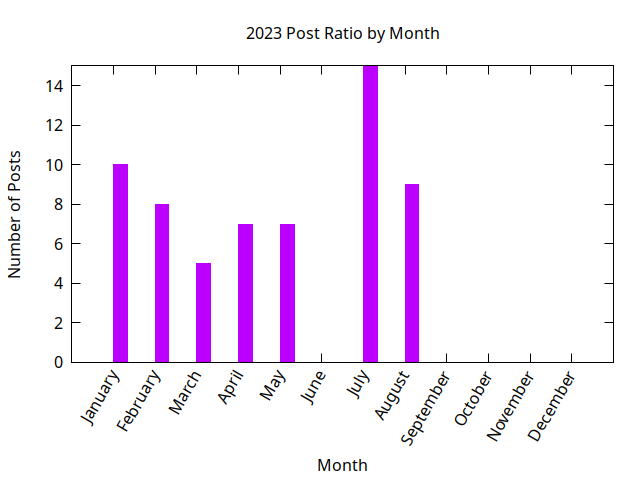
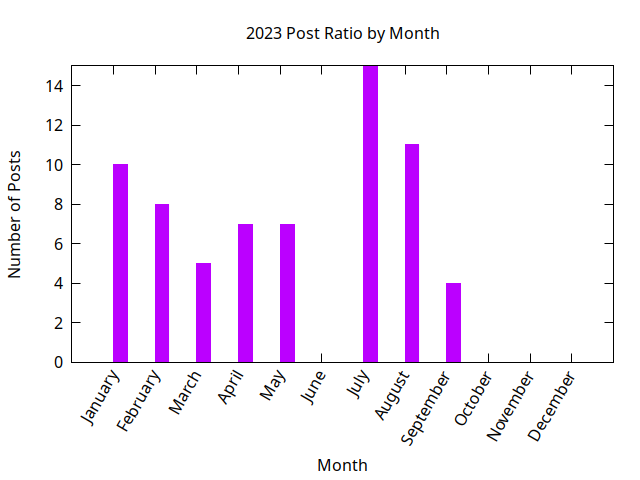
PostgreSQL Emacs YASnippet post and Perl post
Emacs CPerl Mode when editing .t files

I forgot to add the pgtraining 2023 event video

Changed region(s): [[0.6875, 0.5938, 0.7188, 0.75], [0.625, 0.2812, 0.6562, 0.4062]]

diff --git a/_posts/2023-09-08-PerlDynamicMethodDispatching.md b/_posts/2023-09-08-PerlDynamicMethodDispatching.md
@@ -1,0 +1,227 @@
+---
+layout: post
+title:  "Dynamic Method Dispatching in Perl"
+author: Luca Ferrari
+tags:
+- perl
+permalink: /:year/:month/:day/:title.html
+---
+Perl is a language rich in features, and one that I seldomly use is the dynamic method dispatching.
+
+# Dynamic Method Dispatching in Perl
+
+Perl is a very dynamic and flexible language, we all know that!
+<br/>
+In this post I present a feature that I seldomly use, that is the dynamic method dispatching.
+<br/>
+I tend not to use, nor abuse, this feature because it can become very quickly a root for errors and reduces the code readability. Moreover, having **worked very hard with reflection and dynamic methods** (see my PhD thesis for an idea), it reminds me very hard times!
+<br/>
+However, there are some edge cases where this Perl feature can save you a lot of code, and in this article I try to simply demonstrate it.
+
+## The Scenario
+
+Imagine you want to build a `Person` class (e.g., using `Moo`, but that does not matter at all), and you want to give to the `Person` a set of capabilities that are very similar *in shape*. For example, a `Person` can have a list of *skills* and `achievements`: both are *lists* (arrays), no matter if you use a class to represent each of them or not.
+<br/>
+In this situation, you will quickly find yourself in writing code that, for example, count and stringify the above class properties.
+<br/>
+A simple application can run as the following:
+
+<br/>
+<br/>
+```perl
+package Person;
+use Moo;
+
+has name    	 => ( is => 'ro' );
+has skills  	 => ( is => 'rw', default => sub { [] } );
+has achievements => ( is => 'rw', default => sub { [] } );
+
+
+
+
+package main;
+
+my $luca = Person->new( name => 'Luca' );
+push $luca->skills->@*, $_ for ( qw/ Perl Raku Java PHP C / );
+push $luca->achievements->@*, $_ for ( qw/ degree PhD / );
+
+
+# print out the person details
+say 'The person ' . $luca->name . ' has: ';
+say "\t" . scalar( $luca->skills->@* ) . " skills ";
+say "\t" . join( ', ', $luca->skills->@* );
+say ' and has: ';
+say "\t" . scalar( $luca->achievements->@* ) . " achievements ";
+say "\t" . join( ', ', $luca->achievements->@* );
+
+```
+<br/>
+<br/>
+
+
+The output of the application is very straighforward:
+
+<br/>
+<br/>
+```shell
+% perl test.pl
+The person Luca has:
+        5 skills
+        Perl, Raku, Java, PHP, C
+ and has:
+        2 achievements
+        degree, PhD
+
+```
+<br/>
+<br/>
+
+
+Did you spot the problem? Well, there is no problem so far, but sooner or later, for sake of readability, you will provide some class methods to help the data retrieval. The class and the application therefore could be modified as follows:
+
+
+<br/>
+<br/>
+```perl
+use v5.38;
+
+package Person;
+use Moo;
+
+has name    	 => ( is => 'ro' );
+has skills  	 => ( is => 'rw', default => sub { [] } );
+has achievements => ( is => 'rw', default => sub { [] } );
+
+sub count_skills {
+    my ( $self ) = @_;
+    scalar $self->skills->@*;
+}
+
+sub count_achievements {
+    my ( $self ) = @_;
+    scalar $self->achievements->@*;
+}
+
+sub list_skills {
+    my ( $self ) = @_;
+    join ', ', $self->skills->@*;
+}
+
+sub list_achievements {
+    my ( $self ) = @_;
+    join ', ', $self->achievements->@*;
+}
+
+
+package main;
+
+my $luca = Person->new( name => 'Luca' );
+push $luca->skills->@*, $_ for ( qw/ Perl Raku Java PHP C / );
+push $luca->achievements->@*, $_ for ( qw/ degree PhD / );
+
+say 'The person ' . $luca->name . ' has: ';
+say "\t" . $luca->count_skills . " skills ";
+say "\t" . $luca->list_skills;
+say ' and has: ';
+say "\t" . $luca->count_achievements . " achievements ";
+say "\t" . $luca->list_achievements;
+
+```
+<br/>
+<br/>
+
+The methods `count_skills`, `count_achievements`, `list_skills`, `list_achievements` help improving the usage of your own class from the outside, but require you to write more code within the class.
+<br/>
+Do you see the problem now?
+<br/>
+*Every time you add a new property to the class, you need to implement a few utility/helper methods*, and this is annoying!
+
+
+## Dynamic Dispatch to the Rescue
+
+Being Perl, it is possible to solve the problem of adding new properties to the class without requiring new methods thanks to the dynamic method dispatch.
+The idea is to write only the *template* methods, that can work on pretty much every list property of the class, and then use those methods to dynamically call the property methods on the class. This of course requires that (i) the properties have similar behavior and (ii) the counting, stringification, and in general the methods can apply the same logic to all the above properties.
+<br/>
+The class is modified as follows:
+
+
+<br/>
+<br/>
+```perl
+use v5.38;
+
+package Person;
+use Moo;
+
+has name    	 => ( is => 'ro' );
+has skills  	 => ( is => 'rw', default => sub { [] } );
+has achievements => ( is => 'rw', default => sub { [] } );
+
+sub count {
+    my ( $self, $what ) = @_;
+    scalar $self->$what()->@*;
+}
+
+sub list {
+    my ( $self, $what ) = @_;
+    join ', ', $self->$what()->@*;
+}
+
+
+package main;
+
+my $luca = Person->new( name => 'Luca' );
+push $luca->skills->@*, $_ for ( qw/ Perl Raku Java PHP C / );
+push $luca->achievements->@*, $_ for ( qw/ degree PhD / );
+
+say 'The person ' . $luca->name . ' has: ';
+say "\t" . $luca->count( 'skills' ) . " skills ";
+say "\t" . $luca->list( 'skills' );
+say ' and has: ';
+say "\t" . $luca->count( 'achievements' ) . " achievements ";
+say "\t" . $luca->list( 'achievements' )
+```
+<br/>
+<br/>
+
+
+Let's start from the application first: as you can see the methods now accept a string value (e.g., `'skills'`) that is used to discriminate between the different class properties. The methods, now `count` and `list` operate on the `$what()` class method, that is in turn resolved into a class method.
+<br/>
+For instance, `$luca->count( 'skills' );` is translated into `scalar $self->$what()->@*` that in turn is translated into `scalar $self->skills()->@*`. The trick here is that `$what` is used to store **the method name, that in turn is activated by appending `()` after the variable evaluation** (and note that the parentheses are not even mandatory!).
+
+<br/>
+<br/>
+
+This provides room also for another improvement in the code that exploits your class:
+
+<br/>
+<br/>
+```perl
+package main;
+
+my $luca = Person->new( name => 'Luca' );
+push $luca->skills->@*, $_ for ( qw/ Perl Raku Java PHP C / );
+push $luca->achievements->@*, $_ for ( qw/ degree PhD / );
+
+say 'The person ' . $luca->name . ' has: ';
+for ( qw/ skills achievements / ) {
+    say "\t" . $luca->count( $_ ) . " $_";
+    say "\t" . $luca->list( $_ ) . " $_";
+}
+
+
+```
+<br/>
+<br/>
+
+
+In other words, you can loop over a set of properties (by their names) and get out the data from the generic and dynamic methods.
+<br/>
+This is, by far, the only way I use this approach: when I need to produce long reports over datasets (e.g., spredsheets), I tend to implement generic method that wrap dynamic dispatch and loop over all the properties I want to extract.
+
+
+# Conclusions
+
+Perl is really a dynamic and flexible language, that allows you to shrink your code in a very clever way.
+<br/>
+Less code, generally means less errors and, most notably, more fun!

diff --git a/_posts/2023-09-08-EmacsPostgreSQLFunctionTemplate.md b/_posts/2023-09-08-EmacsPostgreSQLFunctionTemplate.md
@@ -1,0 +1,81 @@
+---
+layout: post
+title:  "Using Emacs and YASnippet to quickly write PostgreSQL functions"
+author: Luca Ferrari
+tags:
+- postgresql
+- planet-postgresql-org
+- emacs
+permalink: /:year/:month/:day/:title.html
+---
+How a simple snippet can allow you to save time and improve your PostgreSQL code quality.
+
+# Using Emacs and YASnippet to quickly write PostgreSQL functions
+
+I love Emacs, and I also love PostgreSQL.
+<br/>
+Whenever I have to write PostgreSQL code, I use Emacs.
+<br/>
+Emacs can help me improving code quality, for example to write PostgreSQL functions. I use *YASnippet* as a package to provide the basic template for a PostgreSQL function.
+
+# A PostgreSQL Function Template (in action)
+Before explaining the concept, let's see a couple of short videos that demonstrate my snippet in action:
+
+
+<br/>
+<br/>
+<center>
+<iframe width="560" height="315" src="https://www.youtube.com/embed/9o5ahcmZK90?si=dRiQIsMn88ijuk5j" title="YouTube video player" frameborder="0" allow="accelerometer; autoplay; clipboard-write; encrypted-media; gyroscope; picture-in-picture; web-share" allowfullscreen></iframe>
+
+<br/>
+
+<iframe width="560" height="315" src="https://www.youtube.com/embed/y8YWMZGz5cY?si=ySvUEFgIOIYy0wP3" title="YouTube video player" frameborder="0" allow="accelerometer; autoplay; clipboard-write; encrypted-media; gyroscope; picture-in-picture; web-share" allowfullscreen></iframe>
+</center>
+<br/>
+<br/>
+
+
+# A PostgreSQL Function Template (the code)
+
+The code for the template is the following one (I may change some bits here and there as time goes by):
+
+<br/>
+<br/>
+```
+# -*- mode: snippet -*-
+# name: PostgreSQL Function
+# key: function
+# --
+--
+-- Function ${1:function_name}
+-- Schema   ${2:public}
+--
+-- Description:
+-- $3
+--
+-- Return Type: ${4:VOID}
+--
+CREATE ${5:OR REPLACE} FUNCTION
+$2.$1($6)
+RETURNS $4
+AS $CODE$
+
+$0
+
+$CODE$
+LANGUAGE ${8:plpgsql}
+VOLATILE
+;
+```
+<br/>
+<br/>
+
+The preamble is used from Emacs to understand the template name.
+The following, is SQL code that works as a template for a function. Every `$n` placeholder is a tab stop that can be used to place the cursor within the text. For example, `${1:function_name}` is the first (`1`) tab stop, that present the default text `function_name` that is overwritten as I type in something. The name of function is then automatically replaced into the other `$1` placeholder.
+<br/>
+Note, how I first begin from the documentation, and then jump to the function code. This is a very important **added value: writing the documentation first I ensure every piece of code will have at least some documentation, and thanks to the placeholders, what I write in the documentation is used to name the function and its return type**.
+
+
+# Conclusions
+
+Emacs and YASnippet can be very powerful to help writing PostgreSQL code. While this post focuses on functions, it is possible to provide templates also for other kind of code schemes, like procedures, triggers, and so on.

diff --git a/_includes/stats/2023.md b/_includes/stats/2023.md
@@ -1,25 +1,26 @@
 <a name="2023" />
 ## 2023 (work in progress)
 
-**61 total posts** have been written on 2023.
-There have been *15 different tags* used, the most
+**67 total posts** have been written on 2023.
+There have been *16 different tags* used, the most
 popular being (sorted by number of posts):
  
-- *perl* (33 posts)  
-- *raku* (27 posts)  
-- *perlweeklychallenge* (27 posts)  
-- *postgresql* (20 posts)  
-- *planet-postgresql-org* (20 posts)  
-- *emacs* (3 posts)  
-- *linux* (2 posts)  
+- *perl* (37 posts)  
+- *perlweeklychallenge* (28 posts)  
+- *raku* (28 posts)  
+- *planet-postgresql-org* (21 posts)  
+- *postgresql* (21 posts)  
+- *emacs* (6 posts)  
 - *microsoft* (2 posts)  
-- *ssh* (2 posts)  
 - *oracle* (2 posts)  
-- *pgagroal* (1 posts)  
+- *ssh* (2 posts)  
+- *linux* (2 posts)  
 - *kde* (1 posts)  
-- *systemd* (1 posts)  
 - *libreoffice* (1 posts)  
-- *pgenv* (1 posts).<br/>
+- *systemd* (1 posts)  
+- *pgenv* (1 posts)  
+- *windows* (1 posts)  
+- *pgagroal* (1 posts).<br/>
 <br/>
 The following is the overall 2023 post ratio by month:
 <br/>
@@ -38,7 +39,7 @@ The following is the overall 2023 post ratio by tag (showing max 30 tags):
 
 <div align="right">
 <small>
-Last generated on 2023-08-24 at 14:42
+Last generated on 2023-09-08 at 9:48
 </small>
 </div>
 

diff --git a/projects.md b/projects.md
@@ -84,6 +84,7 @@ Where I was learning, where I was teaching.
 
 ## As a lecturer
 
+- *PGTraining online event 2023*, free online event on April 14th 2023, italian speech titled **[Il linguaggio PL/Perl](https://vimeo.com/820564361){:target="_blank"}**
 - *PGTraining online event 2022*, free online event on April 29th 2022, italian speech titled **[Gestione delle connessioni con pgagroal](https://vimeo.com/704626463){:target="_blank"}**, [slides available](https://gitlab.com/pgtraining/slides/-/blob/master/webinar-20220429/2022_PGTRAINING_20220429.pdf){:target="_blank"}
 - *Linux Day 2021, Modena*, I gave a talk about `Raku` titled **[Il linguaggio della farfallina](https://odysee.com/@fluca1978:d/2021_LINUXDAY_RAKU:7){:target="_blank"}**
 - *PGTraining online event 2021*, free online event on March 12th 2021, I gave a talk about `PgBackrest` **[pgBackRest](https://gitlab.com/pgtraining/slides/-/blob/master/webinar-20210312/slides/2021_PGTRAINING_PGBACKREST.pdf){:target="_blank"}** (offline recorded video in *italian* [available here](https://vimeo.com/523432651){:target="_blank"})

diff --git a/_posts/2023-09-08-EmacsCperlModeTest.md b/_posts/2023-09-08-EmacsCperlModeTest.md
@@ -1,0 +1,29 @@
+---
+layout: post
+title:  "Using CPerl Mode in Emacs when writing test files"
+author: Luca Ferrari
+tags:
+- emacs
+- perl
+permalink: /:year/:month/:day/:title.html
+---
+A simple configuration setting that enables CPerl-Mode when editing test files.
+
+# Using CPerl Mode in Emacs when writing test files
+
+When developing in Perl using Emacs, I usually adopt the `cperl-mode` major mode, that works great for my needs.
+However, this mode is not enabled by default when editing test files, that is those with the `.t` extension.
+<br/>
+Luckily, Emacs is totally customizable, and therefore it does suffice to add something the following line in the startup configuration file to get the trick:
+
+<br/>
+<br/>
+```lisp
+(add-to-list 'auto-mode-alist '("\\.t\\'" . cperl-mode))
+
+```
+<br/>
+<br/>
+
+
+and, after the evaluation, every time Emacs will visit a test file with `.t` extension the CPerl Mode will be automatically loaded.
